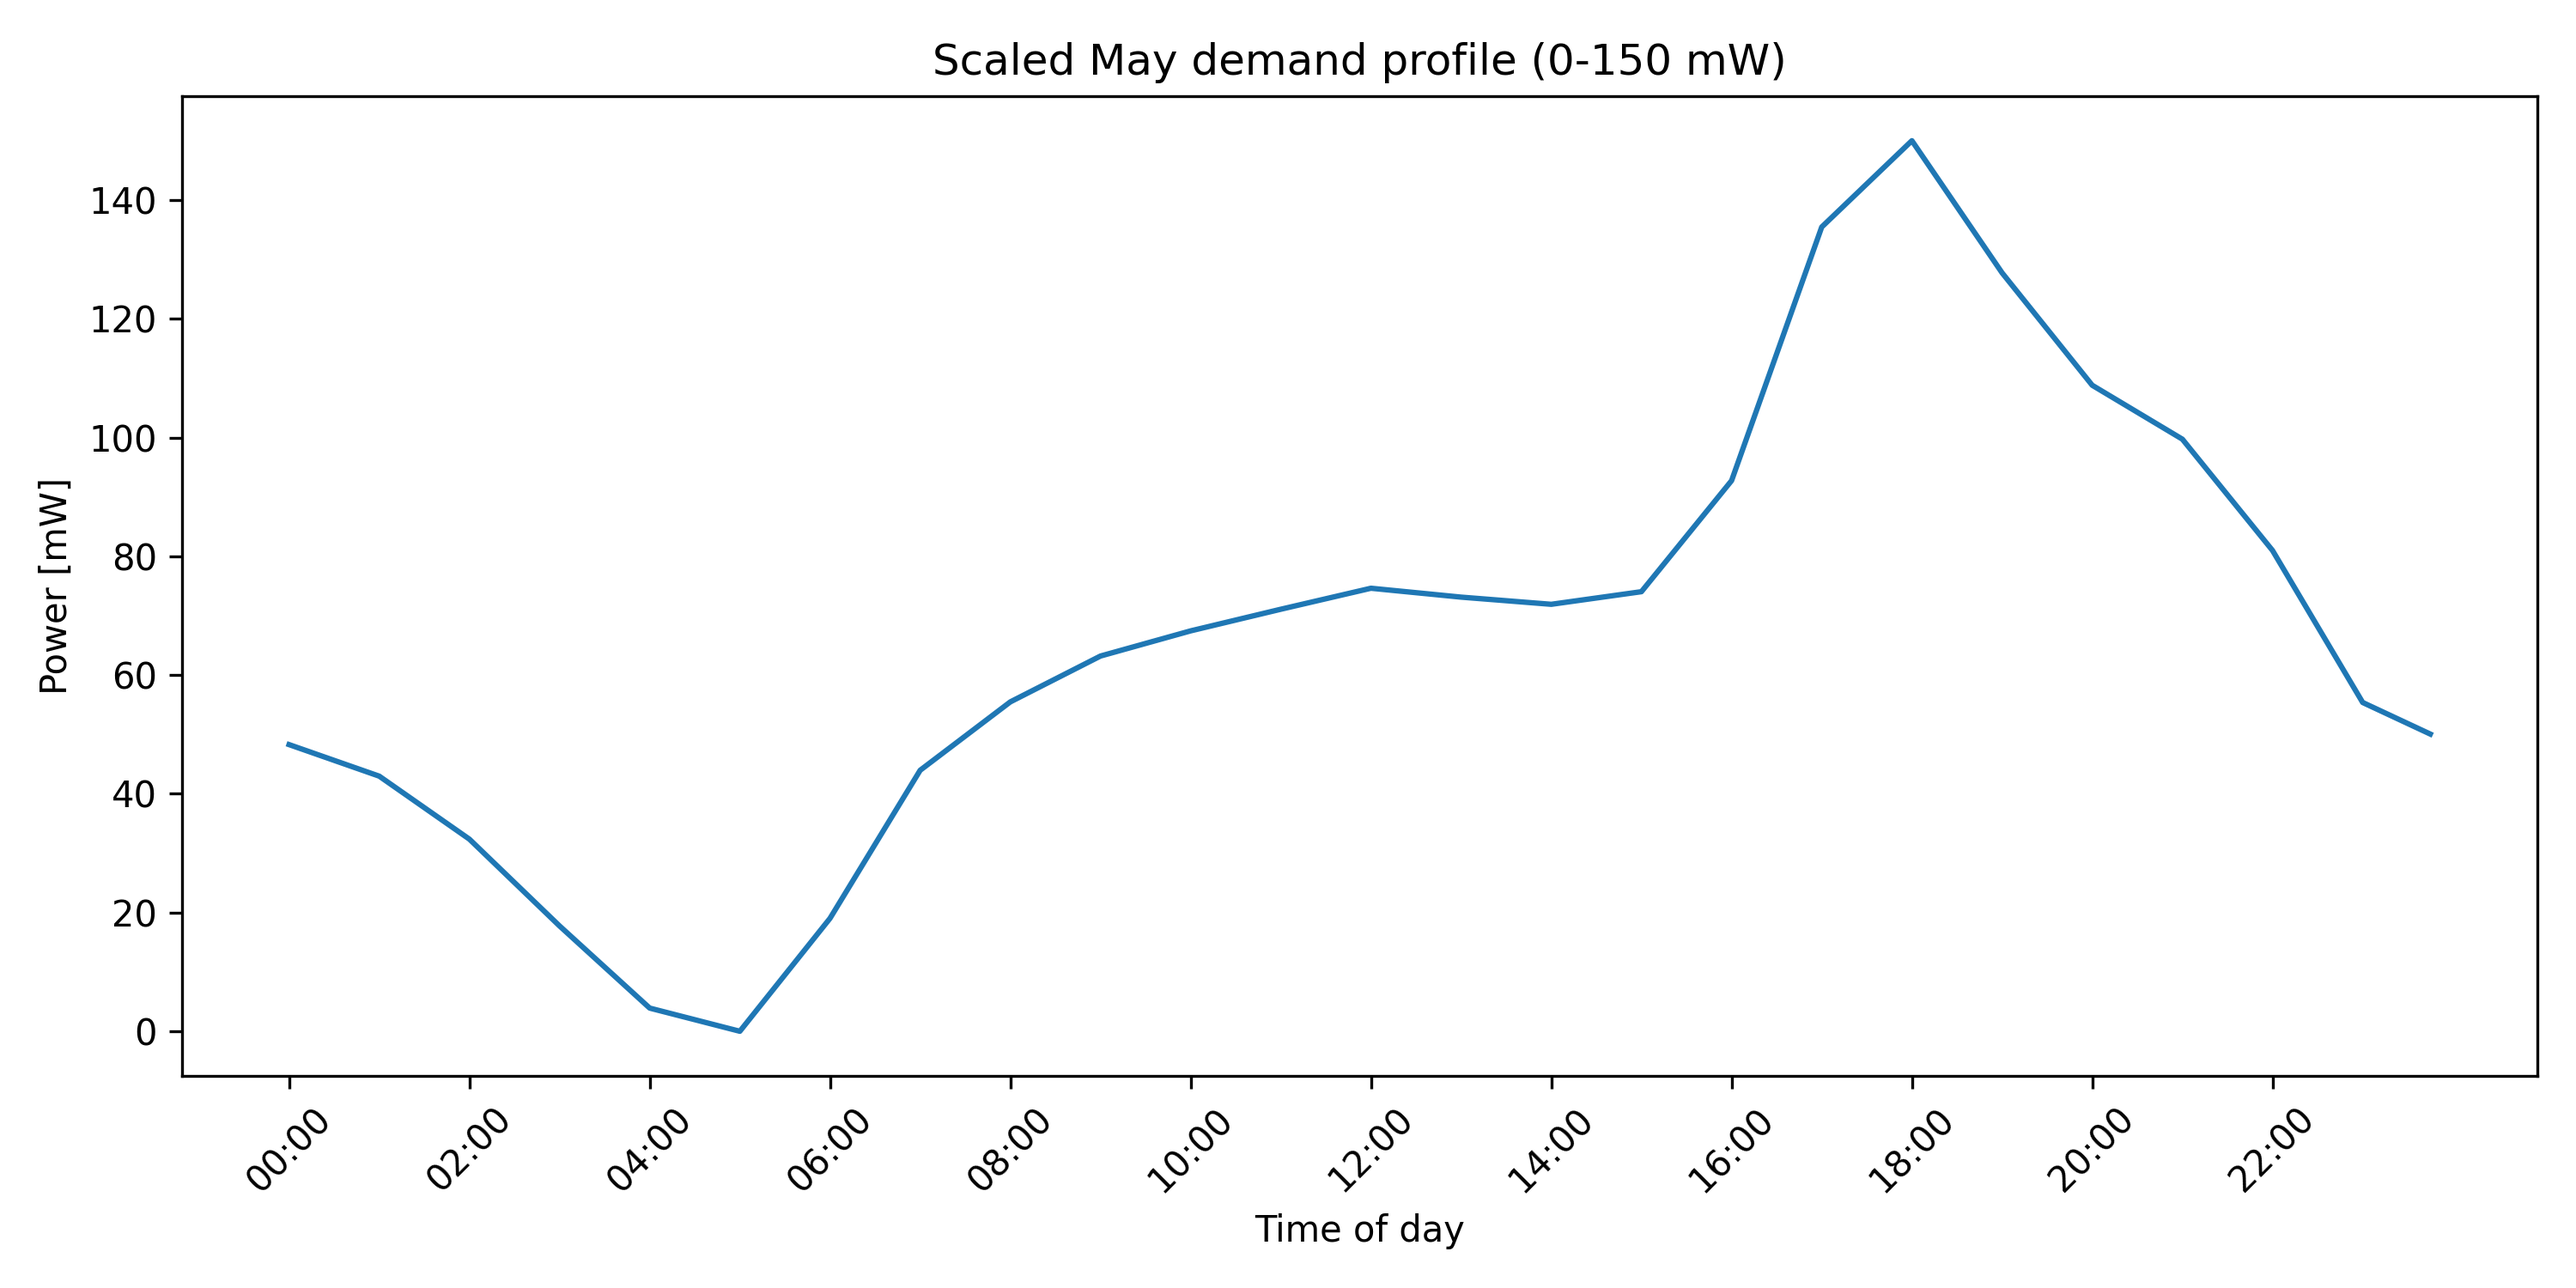
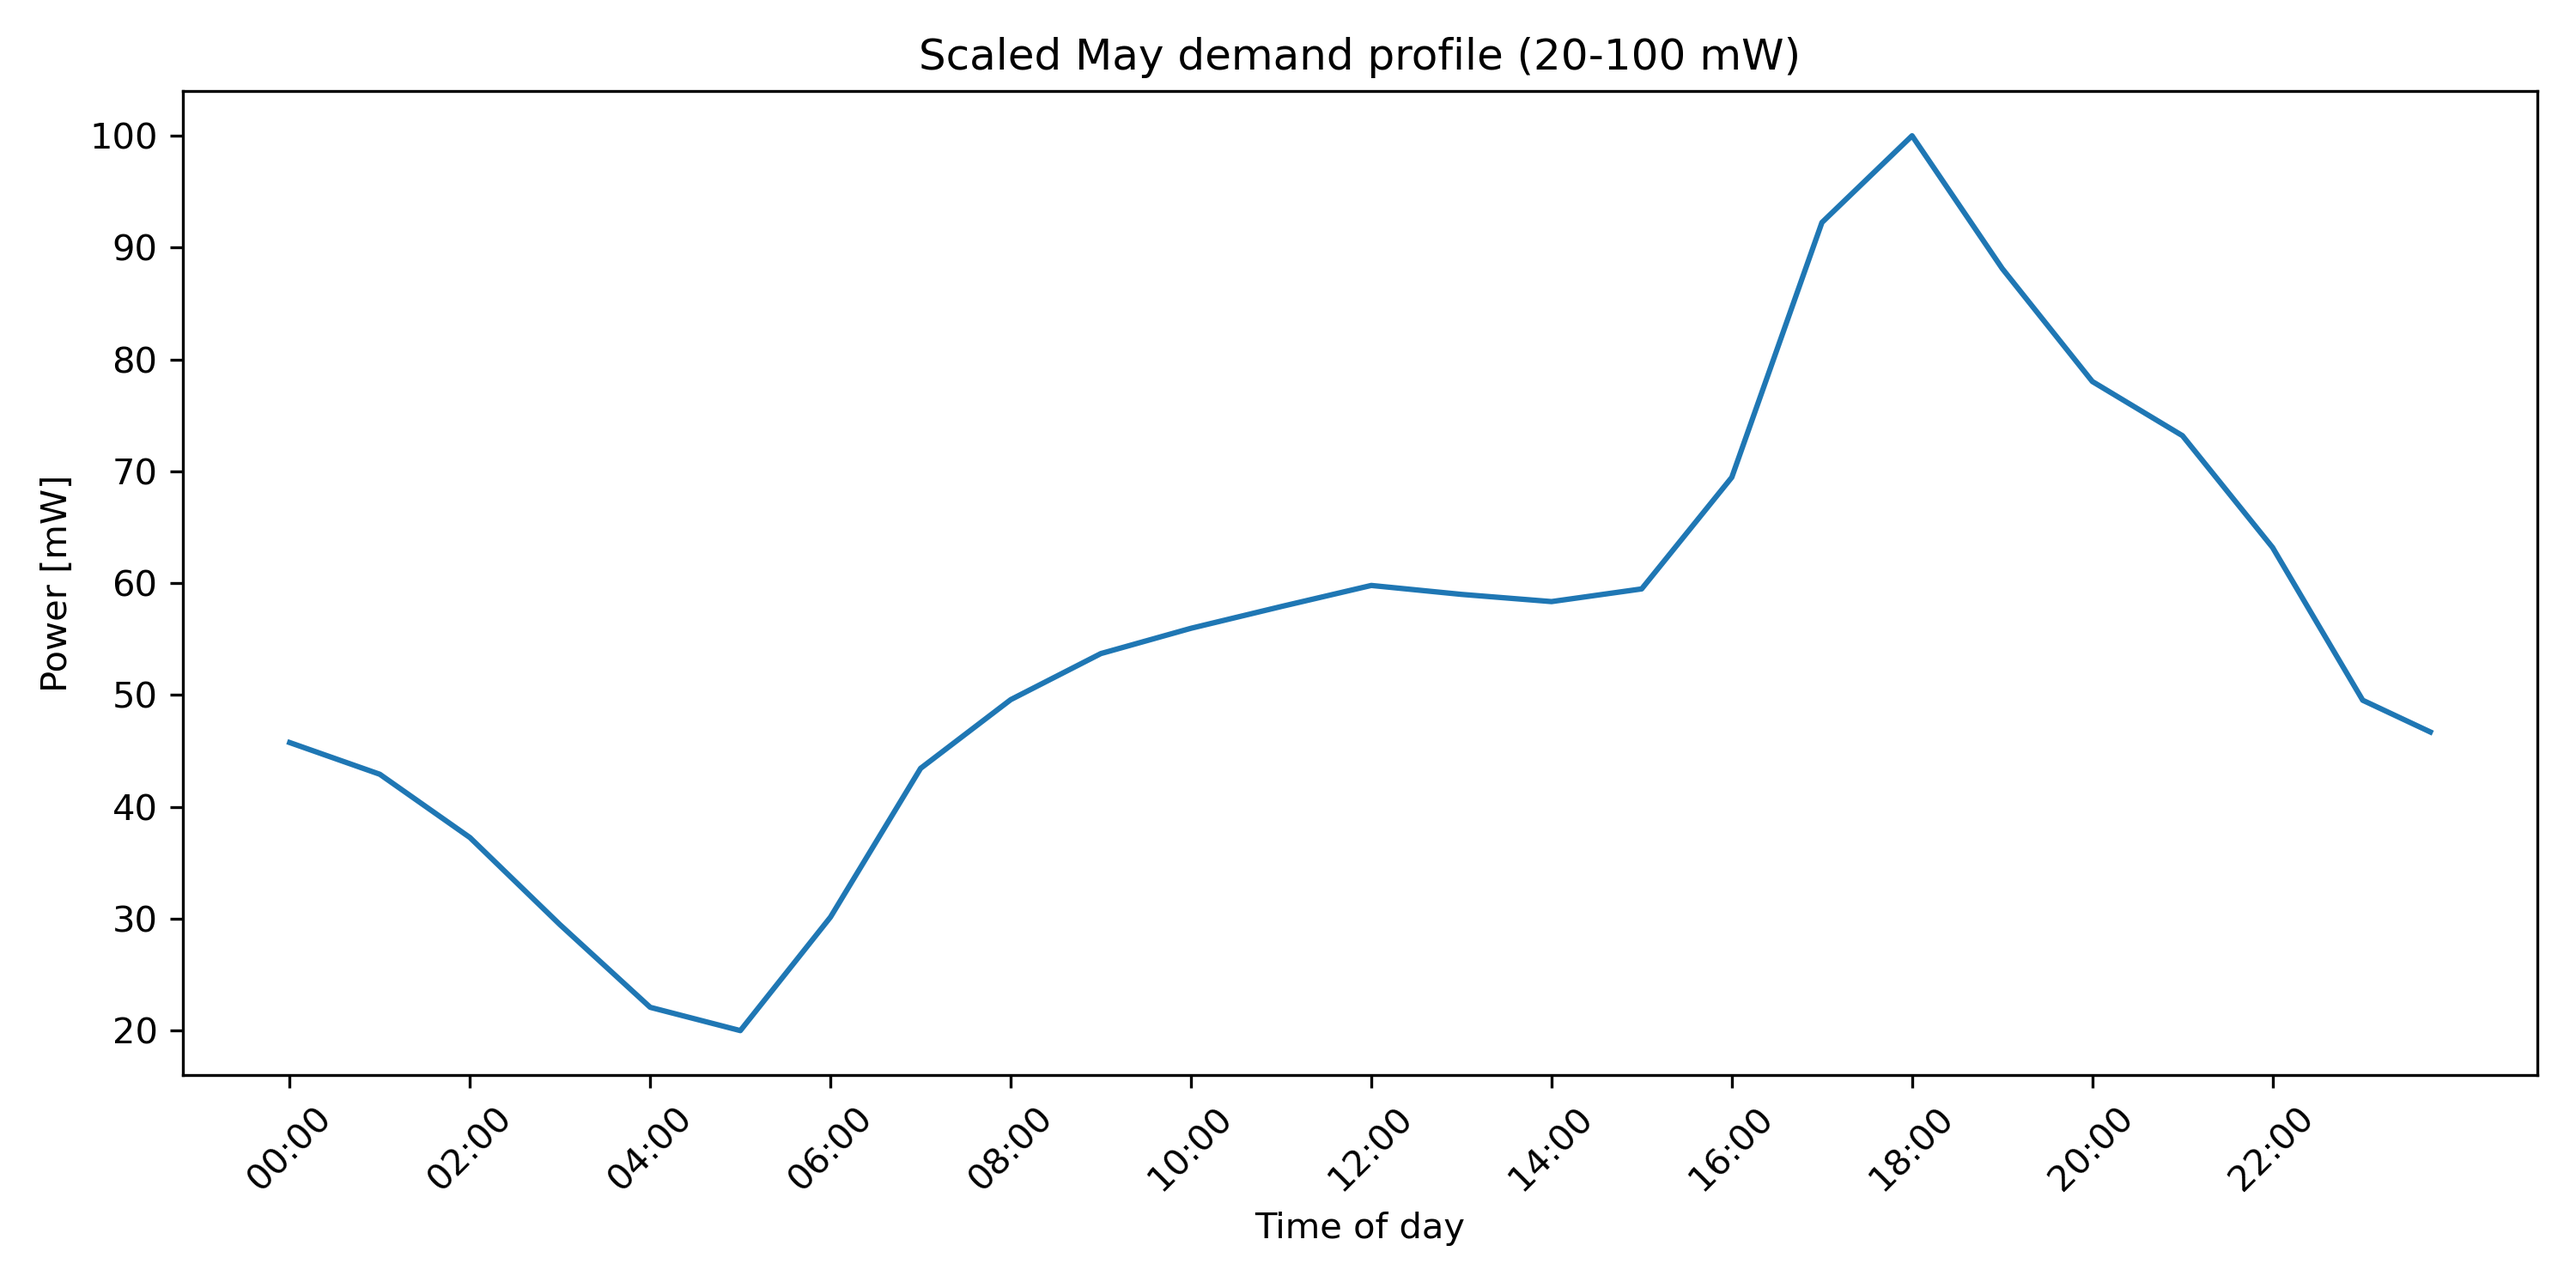
demand profile update

diff --git a/app/python/data/variable_load_signal/demand_profile_may.py b/app/python/data/variable_load_signal/demand_profile_may.py
@@ -18,11 +18,7 @@ OUTPUT_FILE = SCRIPT_DIR / "typical_may_load_profile_15min.csv"
 
 # threshholds for scaling the load profile to a realistic range for the EMS
 MIN_POWER_MW = 20
-<<<<<<< HEAD
-MAX_POWER_MW = 150
-=======
 MAX_POWER_MW = 100
->>>>>>> main
 
 SCALED_OUTPUT_FILE = SCRIPT_DIR / "scaled_may_power_profile_15min.csv"
 SCALED_PLOT_FILE = SCRIPT_DIR / "scaled_may_power_profile_15min.png"
